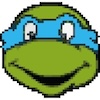
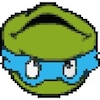
Rotate

diff --git a/main.py b/main.py
@@ -139,7 +139,7 @@ title_rect.center = (su.WIDTH // 2, (su.HEIGHT - su.DOJO_HIGHT) // 4)
 
 # Create the bots.
 r1 = bot(su.RED, su.WIDTH * 1 / 4, su.HEIGHT / 2, 0)
-r2 = bot(su.BLUE, su.WIDTH * 3 / 4, su.HEIGHT / 2, 0)
+r2 = bot(su.BLUE, su.WIDTH * 3 / 4, su.HEIGHT / 2, 180)
 
 running = True
 while running:
